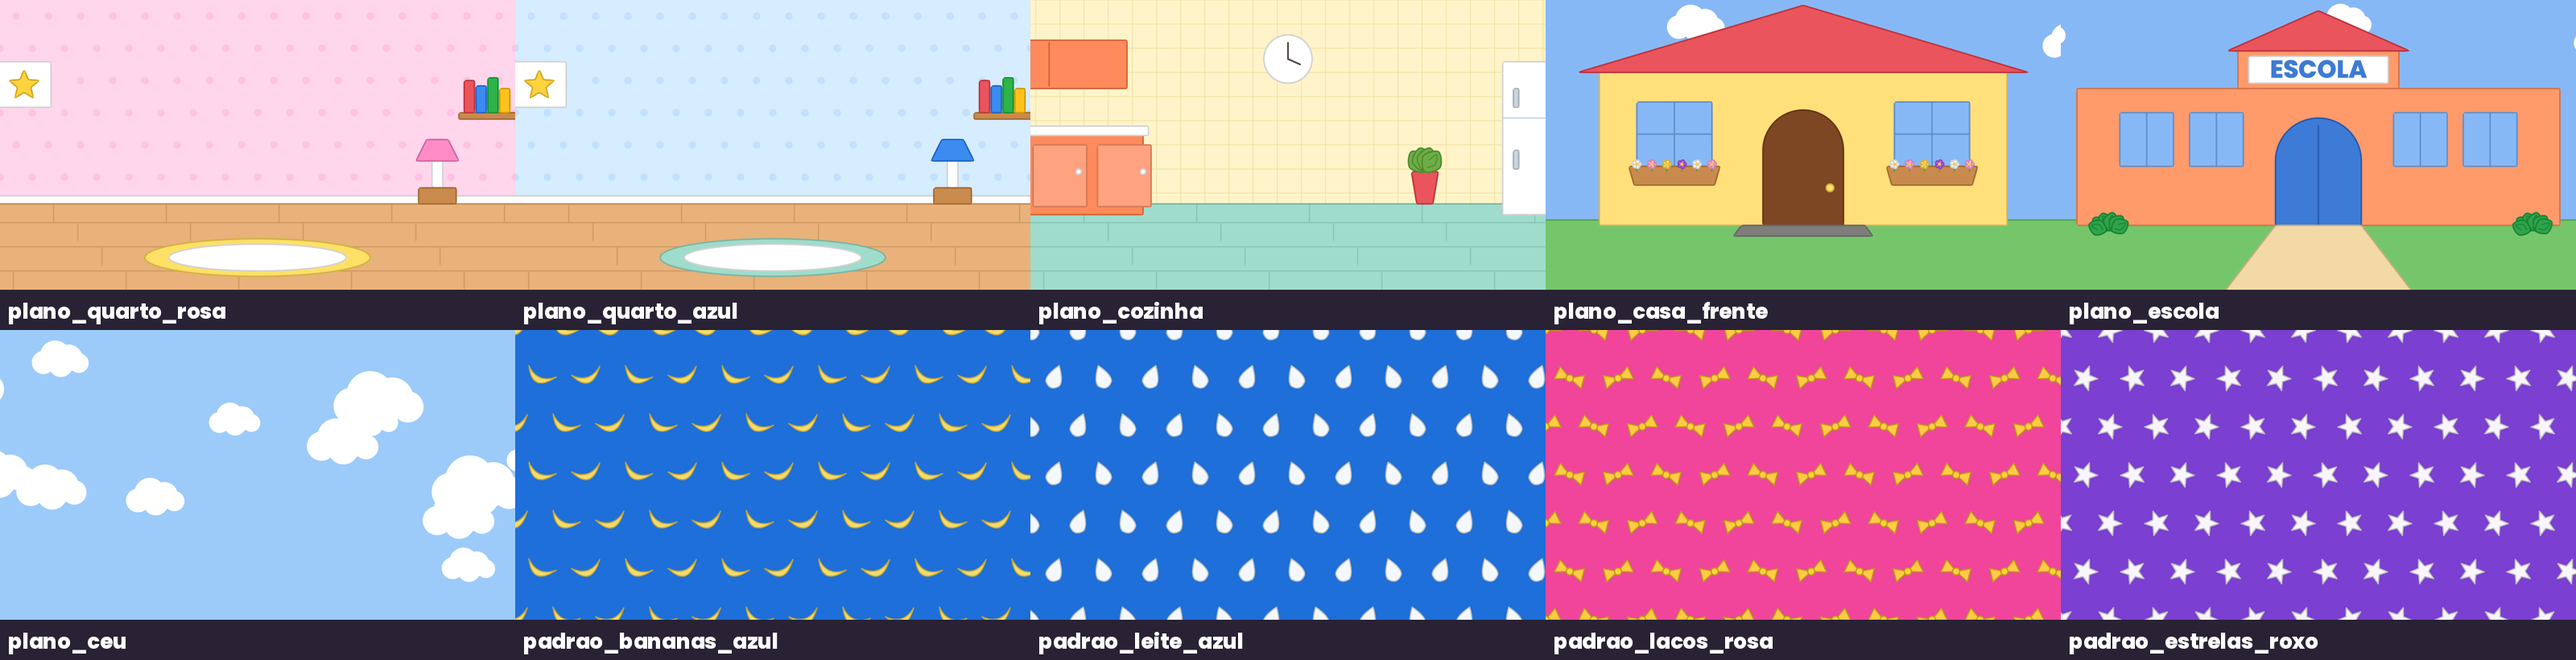
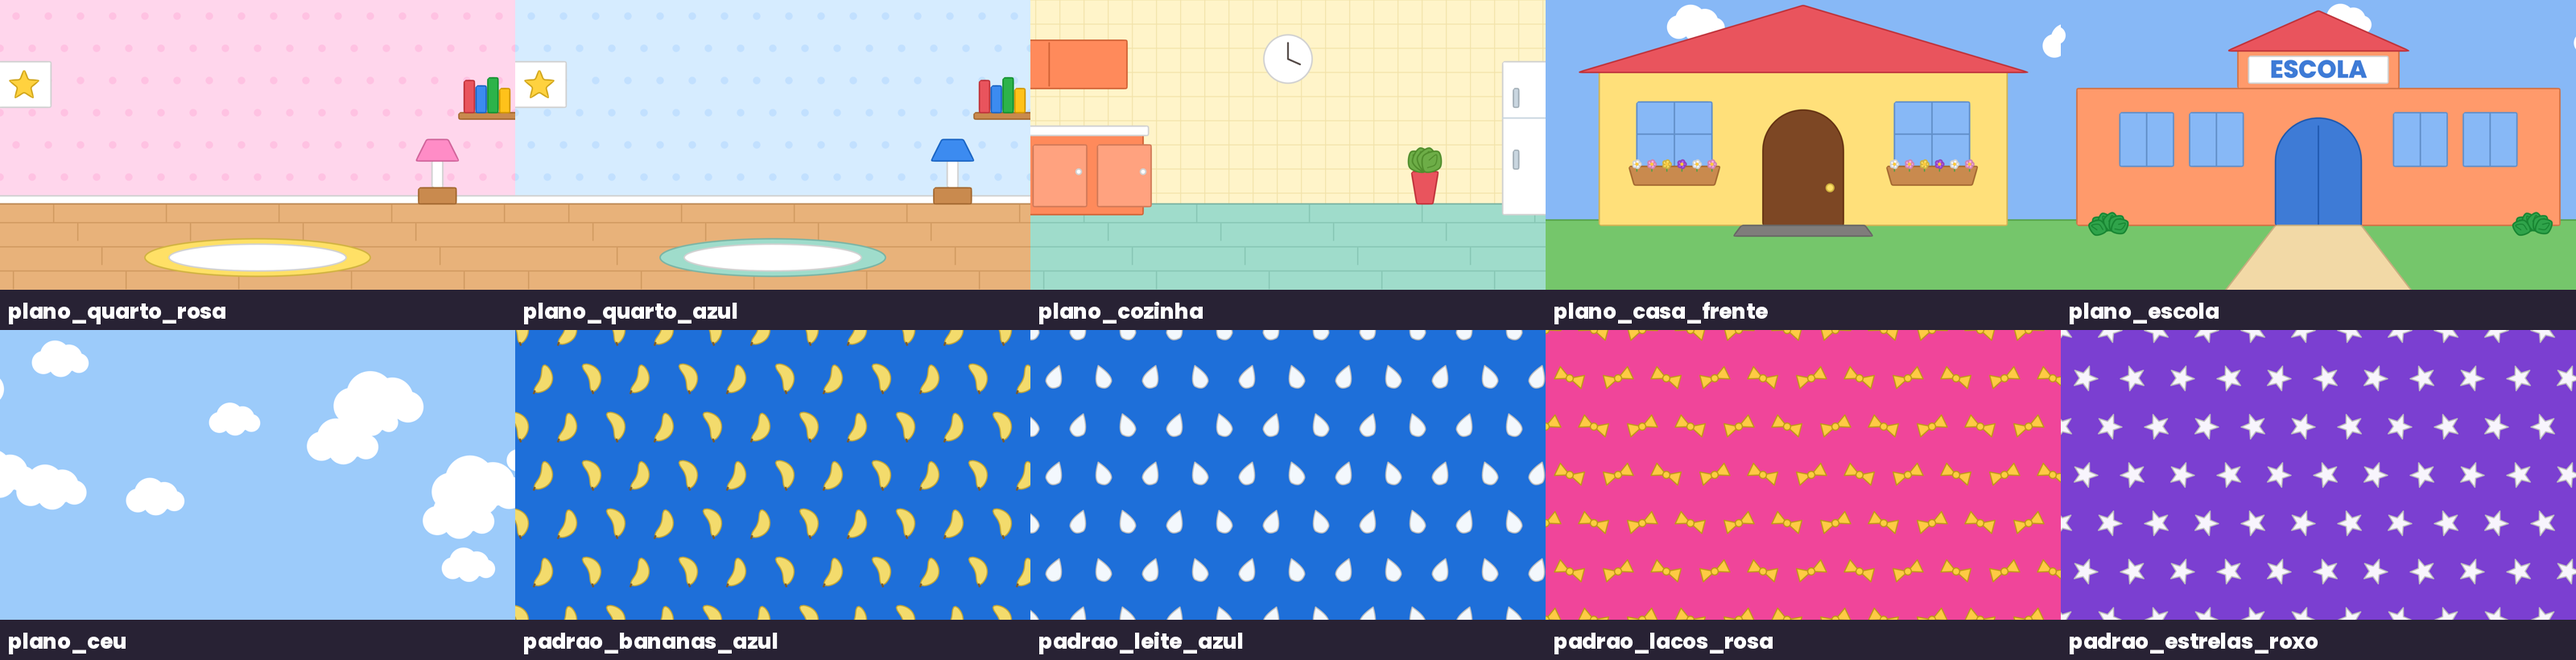
Banana redesenhada (formato clássico com cabinho; mordida = descascada) e fundo de bananas

diff --git a/toonstudio/characters/flat_props.py b/toonstudio/characters/flat_props.py
@@ -79,16 +79,7 @@ def draw_item(k: Ink, name: str, H: tuple[float, float], f: float = 1.0) -> None
             shape(k, Q([(-21, -48), (21, -48), (17, 14), (-17, 14)]), PAL["leite"], line="#C9D6E0", smooth=False)
         ln(k, Q([(-12, -54), (-9, 6)]), "#FFFFFF", w=LINE * 0.8)
     elif name in ("banana", "banana_mordida"):
-        # banana em pé na mão: meia-lua grossa, pontinha marrom em cima (e cabinho embaixo)
-        outer = [(-30 + 62 * math.cos(a), -46 + 62 * math.sin(a)) for a in np.linspace(-1.25, 1.25, 15)]
-        inner = [(-22 + 44 * math.cos(a), -46 + 44 * math.sin(a)) for a in np.linspace(1.1, -1.1, 13)]
-        body = outer + inner
-        if name == "banana_mordida":                      # mordida: corta a ponta de cima
-            body = [(x, y) for x, y in body if y > -86]
-        shape(k, Q(body), PAL["banana"], line="#D8A21E")
-        if name == "banana":
-            k.dot(*q(*outer[0]), 5, _rgba(PAL["banana_ponta"]))
-        k.dot(*q(*outer[-1]), 5, _rgba(PAL["banana_ponta"]))
+        _banana(k, Q, q, name == "banana_mordida")
     elif name == "pente":
         box(k, *q(-10, -70), *q(10, 10), PAL["pente"], r=6) if f > 0 else box(k, *q(10, -70), *q(-10, 10), PAL["pente"], r=6)
         for j in range(6):
@@ -123,6 +114,58 @@ def draw_item(k: Ink, name: str, H: tuple[float, float], f: float = 1.0) -> None
                                 for u in range(7)]
             shape(k, pts, SOMBRINHA[j], smooth=False)
         k.dot(cx, cy - R * 0.62, 7, _rgba("#534946"))
+
+
+def _banana_lado(u0, u1, n, w0=22.0, comp=118.0, curva=30.0, k_w=1.0):
+    """Contorno de uma banana entre as frações u0..u1 do comprimento: linha central curva + largura que afina nas pontas."""
+    import math as _m
+    esq, dir_ = [], []
+    for i in range(n + 1):
+        u = u0 + (u1 - u0) * i / n
+        cx, cy = curva * _m.sin(_m.pi * u), -comp * u
+        dx, dy = curva * _m.pi * _m.cos(_m.pi * u), -comp
+        L = _m.hypot(dx, dy)
+        nx, ny = -dy / L, dx / L
+        w = (w0 * max(0.0, _m.sin(_m.pi * u)) ** 0.6 + 3) * k_w
+        esq.append((cx + nx * w, cy + ny * w))
+        dir_.append((cx - nx * w, cy - ny * w))
+    return esq, dir_
+
+
+def _banana(k: Ink, Q, q, descascada: bool) -> None:
+    """Banana clássica de desenho: comprida, curvada, cabinho embaixo (na mão) e pontinha marrom em cima.
+    Mordida = descascada: fruta creme com mordida + 3 cascas caindo para os lados."""
+    if not descascada:
+        esq, dir_ = _banana_lado(0.0, 1.0, 20, w0=17)
+        shape(k, Q(esq + dir_[::-1]), PAL["banana"], line="#D8A21E")
+        c_esq, c_dir = _banana_lado(0.12, 0.9, 14, k_w=0.0)
+        ln(k, Q([((a[0] + b[0]) / 2 + 6, (a[1] + b[1]) / 2) for a, b in zip(c_esq, c_dir)]), "#E8B92E", w=LINE * 0.8)
+        shape(k, Q([(-5, 2), (5, 2), (4, 18), (-4, 18)]), PAL["banana_ponta"], smooth=False)       # cabinho
+        tip = q(*_banana_lado(1.0, 1.0, 1)[0][0])
+        k.dot(tip[0], tip[1], 5, _rgba(PAL["banana_ponta"]))
+        return
+    # fruta (creme) com mordida no alto
+    esq, dir_ = _banana_lado(0.3, 0.86, 12, k_w=0.72)
+    fruta = esq + dir_[::-1]
+    shape(k, Q(fruta), "#FFF3C4", line="#E2C77A")
+    topo = ((esq[-1][0] + dir_[-1][0]) / 2, (esq[-1][1] + dir_[-1][1]) / 2)
+    for dx in (-7, 7):                                                     # topo arredondado da mordida
+        k.dot(*q(topo[0] + dx, topo[1] + 2), 9 * ITEM_SCALE, _rgba("#FFF3C4"))
+    ln(k, Q([(topo[0] - 14, topo[1] + 6), (topo[0] - 7, topo[1] - 2), (topo[0], topo[1] + 6), (topo[0] + 7, topo[1] - 2),
+             (topo[0] + 14, topo[1] + 6)]), "#E2C77A", w=LINE * 0.8)
+    # casca de baixo + 3 abas caindo
+    esq, dir_ = _banana_lado(0.0, 0.42, 8)
+    shape(k, Q(esq + dir_[::-1]), PAL["banana"], line="#D8A21E")
+    base_y = esq[-1][1]
+    cx = (esq[-1][0] + dir_[-1][0]) / 2
+    for lado, ang in ((-1, 0.9), (0, 0.0), (1, 0.9)):
+        if lado == 0:
+            pts = [(cx - 8, base_y + 2), (cx + 8, base_y + 2), (cx + 6, base_y - 30), (cx, base_y - 40), (cx - 6, base_y - 30)]
+        else:
+            pts = [(cx + lado * 6, base_y + 2), (cx + lado * 20, base_y - 4), (cx + lado * 40, base_y + 22),
+                   (cx + lado * 44, base_y + 40), (cx + lado * 30, base_y + 30), (cx + lado * 14, base_y + 12)]
+        shape(k, Q(pts), PAL["banana"], line="#D8A21E")
+    shape(k, Q([(-5, 2), (5, 2), (4, 18), (-4, 18)]), PAL["banana_ponta"], smooth=False)
 
 
 # ───────────────────────── objetos de cena ─────────────────────────

diff --git a/toonstudio/backgrounds/interior.py b/toonstudio/backgrounds/interior.py
@@ -191,9 +191,16 @@ def _motivo(c, kind, x, y, s, col):
     c.translate(x, y)
     c.scale(s, s)
     if kind == "bananas":
+        from ..characters.flat_props import _banana_lado
+        esq, dir_ = _banana_lado(0.0, 1.0, 16, w0=16, comp=86, curva=22)
         path = skia.Path()
-        path.moveTo(-44, -26); path.quadTo(-6, 52, 48, -22); path.quadTo(0, 18, -44, -26); path.close()
+        pts = [(px, py + 43) for px, py in esq + dir_[::-1]]
+        path.moveTo(*pts[0])
+        for pt in pts[1:]:
+            path.lineTo(*pt)
+        path.close()
         c.drawPath(path, p); c.drawPath(path, pl)
+        c.drawRect(skia.Rect(-3, 40, 3, 52), skia.Paint(AntiAlias=True, Color4f=skia.Color4f(*_rgba("#7A5A2E"))))
     elif kind == "leite":
         path = skia.Path()
         path.moveTo(0, -42); path.quadTo(30, 0, 22, 18); path.quadTo(0, 44, -22, 18); path.quadTo(-30, 0, 0, -42); path.close()
